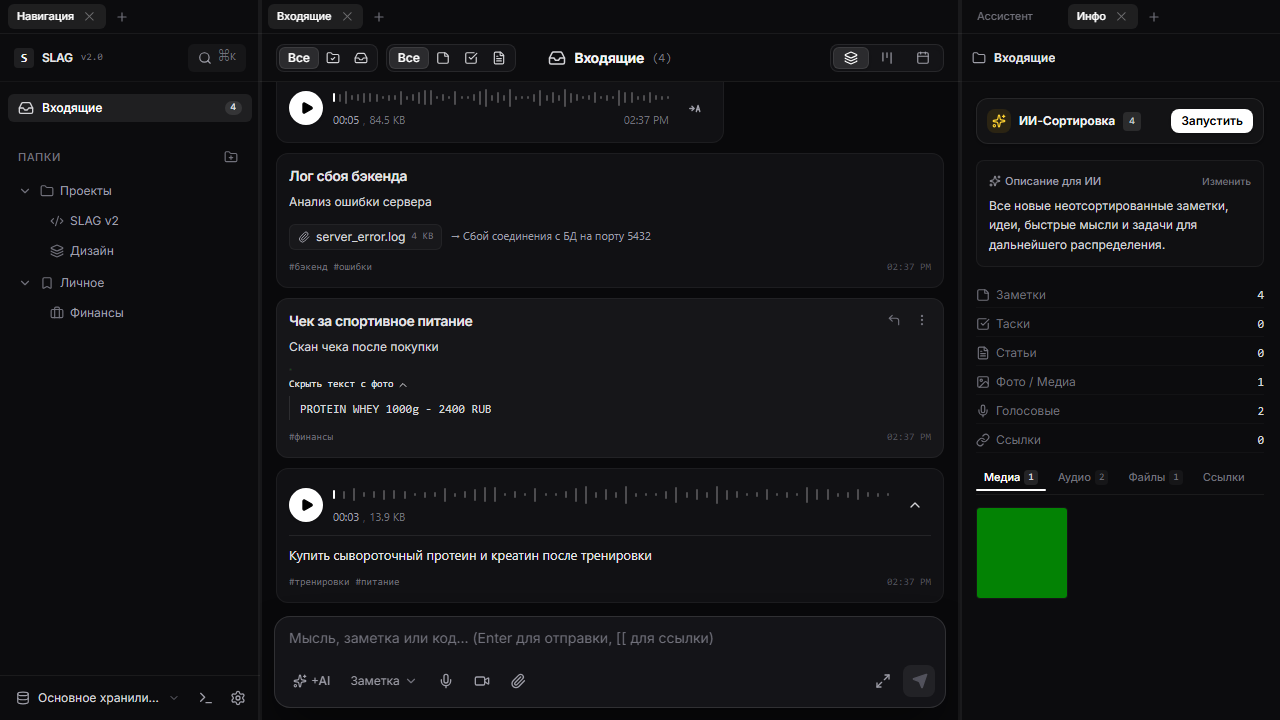
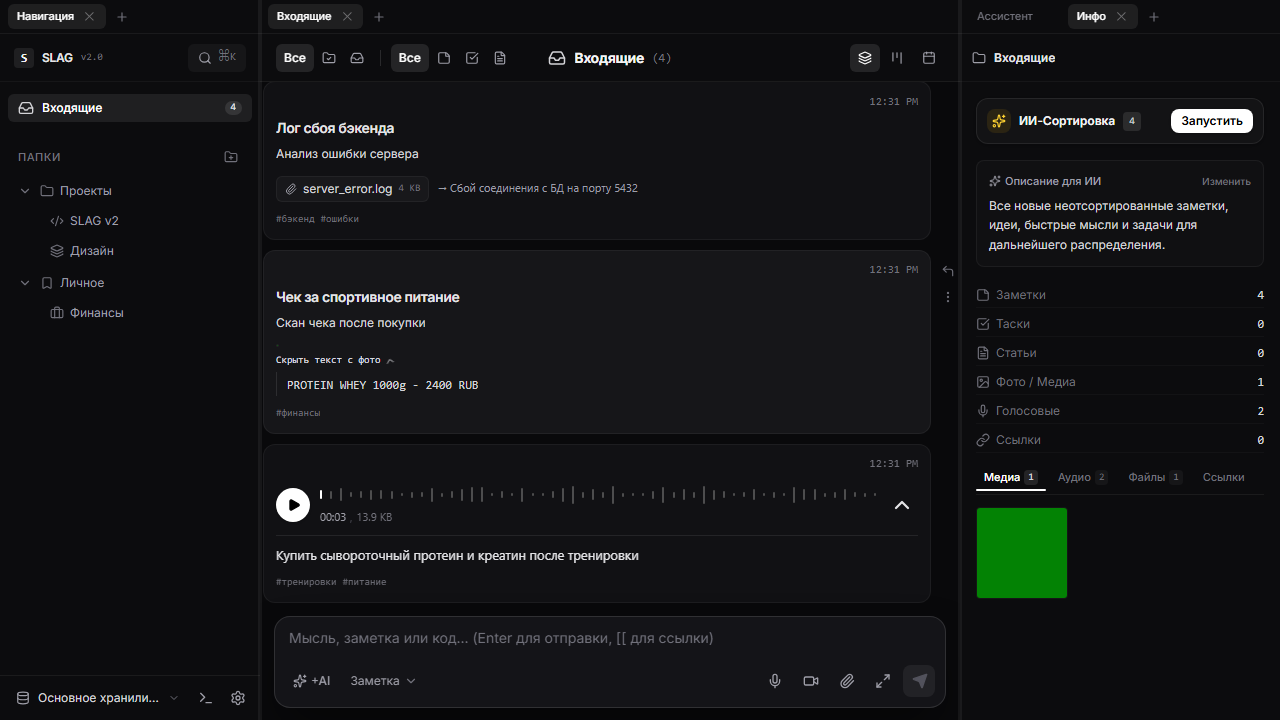
feat(feed): unify timestamp position strictly in top-right corner across all cards

diff --git a/src/components/Feed/ItemCard.tsx b/src/components/Feed/ItemCard.tsx
@@ -218,8 +218,6 @@ export const ItemCard: React.FC<ItemCardProps> = ({ item }) => {
     openLightbox(folderImages, Math.max(0, targetIdx));
   };
 
-  const hasMetadata = isTask || isArticle || (item.folder !== 'Входящие') || Boolean(item.isPinned) || Boolean(item.priority && item.priority !== 'none') || Boolean(item.dueDate);
-
   const handleOpenArticle = () => {
     setSelectedItem(item);
     setIsFullscreenEditorOpen(true);
@@ -342,67 +340,65 @@ export const ItemCard: React.FC<ItemCardProps> = ({ item }) => {
           </button>
         </div>
 
-      {/* Top Header / Metadata Bar (Rendered ONLY when metadata exists) */}
-      {hasMetadata && (
-        <div className="flex items-center justify-between text-xs text-zinc-500">
-          <div className="flex items-center gap-2 flex-wrap">
-            {/* Item Type: Plain text, no nested chips */}
-            {isTask && (
-              <span className="text-2xs font-mono text-zinc-400 font-medium">
-                Таска
-              </span>
-            )}
-            {isArticle && (
-              <span className="text-2xs font-mono text-zinc-400 font-medium">
-                Статья {item.readingTimeMinutes ? `• ${item.readingTimeMinutes} мин` : ''}
-              </span>
-            )}
+      {/* Top Header / Metadata Bar: Always present with unified top-right timestamp */}
+      <div className="flex items-center justify-between text-xs text-zinc-500 min-h-[16px] pr-6 sm:pr-0">
+        <div className="flex items-center gap-2 flex-wrap min-w-0">
+          {/* Item Type: Plain text, no nested chips */}
+          {isTask && (
+            <span className="text-2xs font-mono text-zinc-400 font-medium">
+              Таска
+            </span>
+          )}
+          {isArticle && (
+            <span className="text-2xs font-mono text-zinc-400 font-medium">
+              Статья {item.readingTimeMinutes ? `• ${item.readingTimeMinutes} мин` : ''}
+            </span>
+          )}
 
-            {/* Folder name if not in inbox */}
-            {item.folder !== 'Входящие' && (
-              <span className="text-2xs text-zinc-500 font-mono">
-                {item.folder}
-              </span>
-            )}
+          {/* Folder name if not in inbox */}
+          {item.folder !== 'Входящие' && (
+            <span className="text-2xs text-zinc-500 font-mono">
+              {item.folder}
+            </span>
+          )}
 
-            {/* Task Priority */}
-            {isTask && item.priority && item.priority !== 'none' && (
-              <span className="flex items-center gap-1">
-                <LinearSignalBars priority={item.priority} className="w-3 h-3" />
-                <span
-                  className={`text-2xs uppercase font-mono font-medium ${
-                    item.priority === 'high'
-                      ? 'text-rose-400'
-                      : item.priority === 'medium'
-                      ? 'text-amber-400'
-                      : 'text-zinc-500'
-                  }`}
-                >
-                  {item.priority === 'high' ? 'Высокий' : item.priority === 'medium' ? 'Средний' : 'Низкий'}
-                </span>
+          {/* Task Priority */}
+          {isTask && item.priority && item.priority !== 'none' && (
+            <span className="flex items-center gap-1">
+              <LinearSignalBars priority={item.priority} className="w-3 h-3" />
+              <span
+                className={`text-2xs uppercase font-mono font-medium ${
+                  item.priority === 'high'
+                    ? 'text-rose-400'
+                    : item.priority === 'medium'
+                    ? 'text-amber-400'
+                    : 'text-zinc-500'
+                }`}
+              >
+                {item.priority === 'high' ? 'Высокий' : item.priority === 'medium' ? 'Средний' : 'Низкий'}
               </span>
-            )}
+            </span>
+          )}
 
-            {/* Pin indicator */}
-            {item.isPinned && (
-              <span className="flex items-center gap-1 text-2xs font-mono text-amber-400/90" title="Закрепленная запись">
-                <Pin className="w-2.5 h-2.5 rotate-45 shrink-0" />
-                <span>Закреп</span>
-              </span>
-            )}
+          {/* Pin indicator */}
+          {item.isPinned && (
+            <span className="flex items-center gap-1 text-2xs font-mono text-amber-400/90" title="Закрепленная запись">
+              <Pin className="w-2.5 h-2.5 rotate-45 shrink-0" />
+              <span>Закреп</span>
+            </span>
+          )}
 
-            {/* Task Due Date */}
-            {isTask && item.dueDate && (
-              <span className="flex items-center gap-1 text-2xs text-zinc-500 font-mono">
-                <Calendar className="w-3 h-3 text-zinc-600" />
-                {item.dueDate}
-              </span>
-            )}
-          </div>
-
-          <span className="text-2xs font-mono text-zinc-500 shrink-0">{formattedTime}</span>
+          {/* Task Due Date */}
+          {isTask && item.dueDate && (
+            <span className="flex items-center gap-1 text-2xs text-zinc-500 font-mono">
+              <Calendar className="w-3 h-3 text-zinc-600" />
+              {item.dueDate}
+            </span>
+          )}
         </div>
-      )}
+
+        <span className="text-2xs font-mono text-zinc-500 shrink-0 ml-auto">{formattedTime}</span>
+      </div>
 
       {/* Reply Parent Quote Banner */}
       {item.replyToId && (
@@ -588,7 +584,6 @@ export const ItemCard: React.FC<ItemCardProps> = ({ item }) => {
             duration={att.duration}
             size={att.size}
             waveform={att.waveform}
-            timeContext={isPureVoice ? formattedTime : undefined}
             transcript={att.extractedText}
             summary={att.summary}
             enrichmentStatus={att.enrichmentStatus}
@@ -722,30 +717,18 @@ export const ItemCard: React.FC<ItemCardProps> = ({ item }) => {
         </div>
       )}
 
-      {/* Bottom Bar: Tags + Timestamp (when no top metadata bar exists) */}
-      {!isPureVoice && (
-        <div className="flex items-center justify-between gap-2 pt-0.5 min-h-[16px]">
-          {item.tags && item.tags.length > 0 ? (
-            <div className="flex flex-wrap gap-1.5 items-center">
-              {item.tags.map(tag => (
-                <button
-                  key={tag}
-                  onClick={() => setActiveTagFilter(tag)}
-                  className="text-[10px] font-mono text-zinc-500 hover:text-zinc-300 transition-colors"
-                >
-                  #{tag}
-                </button>
-              ))}
-            </div>
-          ) : (
-            <div />
-          )}
-
-          {!hasMetadata && (
-            <span className="text-[10px] font-mono text-zinc-600 select-none ml-auto shrink-0">
-              {formattedTime}
-            </span>
-          )}
+      {/* Bottom Bar: Tags */}
+      {item.tags && item.tags.length > 0 && (
+        <div className="flex flex-wrap gap-1.5 items-center pt-0.5">
+          {item.tags.map(tag => (
+            <button
+              key={tag}
+              onClick={() => setActiveTagFilter(tag)}
+              className="text-[10px] font-mono text-zinc-500 hover:text-zinc-300 transition-colors"
+            >
+              #{tag}
+            </button>
+          ))}
         </div>
       )}
 
